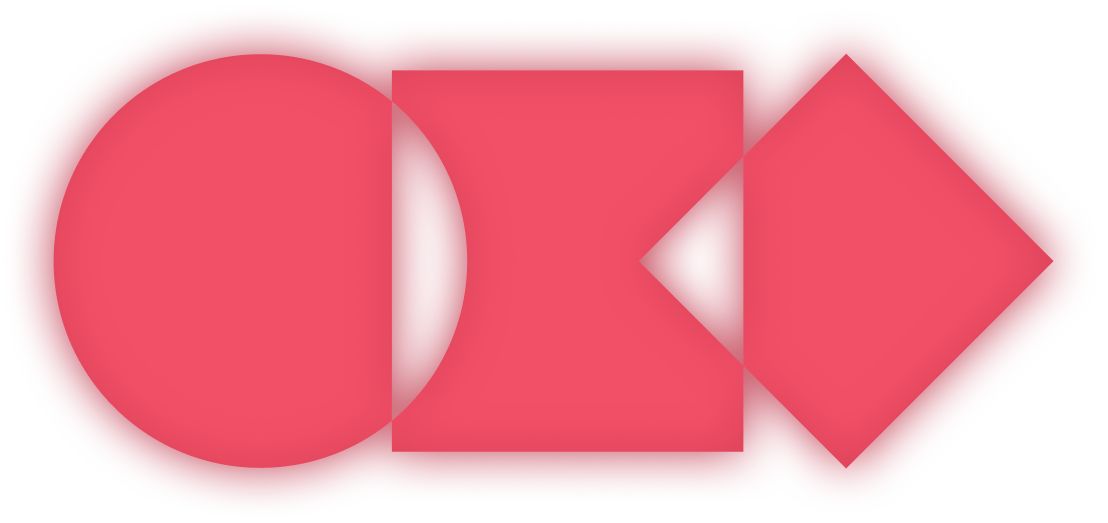
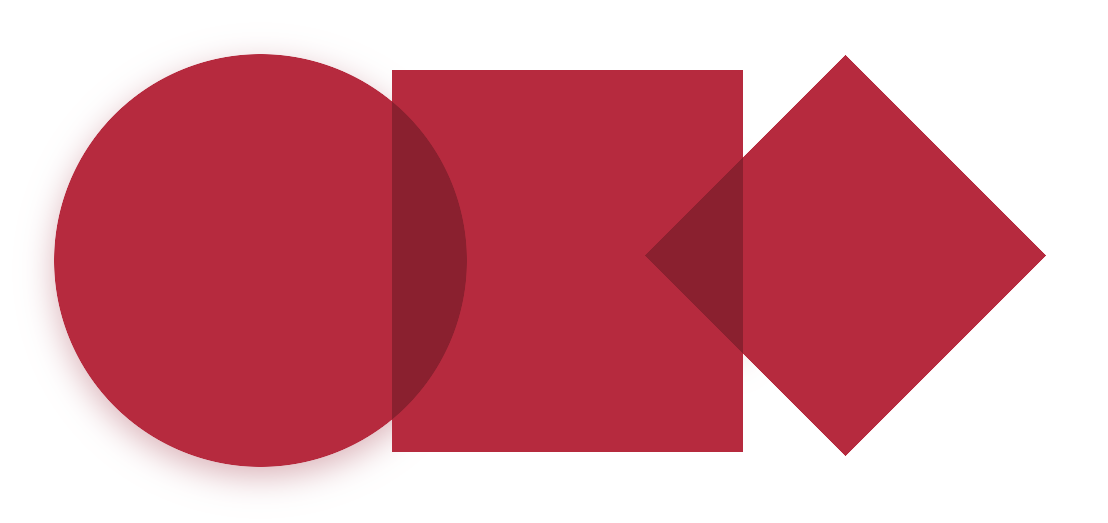
Own light-theme lock artwork; keyboard RGB from the accent; docs: refresh measured values
unlock.png was byte-identical to the dark sibling's (same MD5), so the
light theme shipped a #FF5C74 red-glow mark that is not derived from
this theme's palette at all. scripts/make-unlock.sh now generates the
mark from colors.toml: the same circle/square/diamond monogram and the
same two interlock zones, but in the light accent (#B62A3E) on paper,
with a soft warm shadow instead of the dark sibling's red glow.

keyboard.rgb moves from e63950 (the dark theme's red) to b62a3e, which
is this theme's own accent and what the built-in keyboard.rgb.tpl
({{ accent }}) already generates.

README/RESEARCH: accent is 5.62:1 (not 5.3), muted 2.34:1 (not 3.97),
every base ANSI color is >= 5.07:1 with bright_magenta at the 4.13:1
floor, selection/foreground 12.43:1, and the tested versions include
4.0.6-1. The 58-key resolution count matches the dark sibling on this
release.

diff --git a/RESEARCH.md b/RESEARCH.md
@@ -1,8 +1,9 @@
 # RESEARCH — Lula Light
 
 Engineering notes for the **light** sibling of Lula.
-Verified on **Omarchy 4.0.5-1**. Dark-sibling mechanics (staging flow,
-deny list, template resolution, Plymouth, OWE) are documented in the
+Verified on **Omarchy 4.0.5-1** and re-audited on **4.0.6-1** (2026-10-21).
+Dark-sibling mechanics (staging flow, deny list, template resolution,
+Plymouth, OWE) are documented in the
 [Lula (dark) repo's RESEARCH.md](https://github.com/PedroAugustoOK/omarchy-lula-theme/blob/main/RESEARCH.md);
 this file only registers what is light-specific.
 
@@ -25,43 +26,48 @@ and `/usr/share/omarchy/themes/flexoki-light/colors.toml`.
 
 Official light themes do **not** hold ANSI to ≥ 4.5:1 (catppuccin-latte's
 green is ~2.8:1). Lula Light tightens this: every base ANSI color is
-≥ 4.5:1; only its `bright_*` siblings and `dark_foreground` sit in the
-3.8–4.4:1 chrome band, comparable to the official themes' weakest entries.
+≥ 5.07:1; only its `bright_*` siblings and `dark_foreground` drop into the
+4.13–4.4:1 chrome band, comparable to the official themes' weakest entries.
 
 ## 2. Measured contrast (WCAG 2.x relative-luminance formula)
 
 Against `background #F9F2F4` (L = 0.905). The official
-`omarchy-dev-theme-preview` prints **foreground/background = 15.02:1**
-for the resolved pair (it computes the pair slightly more generously
-than the plain WCAG table below); both calcs agree the pair clears the
-7:1 target by a wide margin:
+`omarchy dev theme-preview` prints **foreground/background = 15.02:1**;
+the table below uses the same formula and reproduces its numbers exactly.
 
 | Role | Key | Hex | Ratio |
 |---|---|---|---|
-| main text | `foreground`/`bright_foreground` | `#32161C` | **14.06:1** |
-| secondary text | `light_foreground` | `#4B2B31` | **10.10:1** |
-| chrome text | `dark_foreground` | `#8A6A71` | 3.97:1 |
-| accent / red | `accent`/`red` | `#B62A3E` | **5.29:1** |
-| `bright_red` | | `#C53344` | 4.57:1 |
-| `yellow` / `bright_yellow` | | `#86600B` / `#876108` | 4.69:1 / 4.63:1 |
-| `orange` | | `#A8491F` | 4.82:1 |
-| `green` / `bright_green` | | `#2A7033` / `#2E7336` | 4.99:1 / 4.78:1 |
-| `cyan` / `bright_cyan` | | `#0D6E75` / `#0F6E75` | 4.97:1 / 4.96:1 |
-| `blue` / `bright_blue` | | `#24578D` / `#2E68A5` | 6.08:1 / 4.77:1 |
-| `magenta` / (`purple`) | | `#A63E96` | 4.70:1 |
-| `bright_magenta` | | `#B44FA6` | 3.84:1 |
-| `brown` | | `#6B3D2A` | 7.32:1 |
+| main text | `foreground`/`bright_foreground` | `#32161C` | **15.02:1** |
+| secondary text | `light_foreground` | `#4B2B31` | **11.27:1** |
+| chrome text | `dark_foreground` | `#8A6A71` | 4.35:1 |
+| accent / red | `accent`/`red` | `#B62A3E` | **5.62:1** |
+| `bright_red` | | `#C53344` | 4.84:1 |
+| `yellow` / `bright_yellow` | | `#86600B` / `#876108` | 5.16:1 / 5.08:1 |
+| `orange` | | `#A8491F` | 5.23:1 |
+| `green` / `bright_green` | | `#2A7033` / `#2E7336` | 5.50:1 / 5.26:1 |
+| `cyan` / `bright_cyan` | | `#0D6E75` / `#0F6E75` | 5.43:1 / 5.43:1 |
+| `blue` / `bright_blue` | | `#24578D` / `#2E68A5` | 6.74:1 / 5.23:1 |
+| `magenta` / (`purple`) | | `#A63E96` | 5.07:1 |
+| `bright_magenta` | | `#B44FA6` | 4.13:1 |
+| `brown` | | `#6B3D2A` | 8.18:1 |
 
-Swap-check: `foreground #32161C` on `selection #EFDADE` keeps ~7.5:1;
-`background` on `dark_background` offers an 8.5:1 invert pair.
+Swap-check: `foreground #32161C` on `selection #EFDADE` keeps **12.43:1**;
+`background` against `dark_background` is a **1.11:1** pair — adjacent
+surfaces in a light theme are meant to be close, not to invert.
+
+Every base ANSI color clears **5.07:1** (the weakest is `magenta`). The
+`bright_*` siblings sit lower: `bright_magenta` is the floor at **4.13:1**,
+and `dark_foreground` (chrome) is at 4.35:1. Those two are the only entries
+below 4.5:1, and both are chrome-grade roles, in the same band as the
+official light themes' weakest entries.
 
 ## 3. Resolution check
 
 `omarchy-theme-color --file colors.toml --all` resolves **58 keys**
-(dark themes resolve 71 — the four original `*-mix`-style light/dark
-preview variants and a few dark-only derivatives are the difference;
-none are referenced by the built-in templates). Verified present and
-correct: `mode = light`, `theme_type = light`, `bg`/`fg` aliases,
+on Omarchy 4.0.6-1 — the same count the dark sibling resolves on this
+version (on 4.0.5-1 the dark theme resolved 71; the resolver's derived-key
+set narrowed with the release). Verified present and correct:
+`mode = light`, `theme_type = light`, `bg`/`fg` aliases,
 `color0–15`, `purple` → `#A63E96`, both
 `hyprland_*_border` gradient strings intact.
 
@@ -93,8 +99,8 @@ Pin a deterministic background with
 ## 5. Plymouth / OWE specifics
 
 - `omarchy-plymouth-set-by-theme lula-light` works exactly as for the
-  dark theme: it uses `unlock.png` plus this theme's
-  `background`/`foreground` (light boot: red mark on paper).
+  dark theme: it uses this theme's own `unlock.png` plus its
+  `background`/`foreground` (light boot: wine mark on paper).
   `omarchy plymouth preview` composites `preview-unlock.png` and always
   ends "hanging" in `imv` — that is the viewer, not the pipeline; the PNG
   is already written (run under `timeout`).
@@ -105,8 +111,15 @@ Pin a deterministic background with
 
 - The three wallpapers form a curated abstract set (blush, petal, linen),
   2560×1440 PNG, 150–205 KB, generated procedurally with ImageMagick.
-- `unlock.png` reuses the dark sibling's red key art (1108×523,
-  transparent) — it is legible on the light lock/boot surface too, which
-  keeps the family identity identical.
-- Icons `Yaru-red`, keyboard backlight `e63950` (the keyboard RGB has no
-  light/dark distinction in Omarchy's pipeline).
+- `unlock.png` (1108×523, transparent) and `preview-unlock.png`
+  (1920×1080) are **this theme's own** key art, generated by
+  `scripts/make-unlock.sh`. It keeps the family monogram — circle, square
+  and diamond with the two interlock zones painted a step deeper — but in
+  the light palette: the accent `#B62A3E` on paper, with a soft warm
+  shadow instead of the dark sibling's red glow. Reusing the dark theme's
+  art byte-for-byte would put a `#FF5C74` glow on a white boot screen and
+  would not be derived from this theme's colors at all.
+- Icons `Yaru-red`, keyboard backlight `b62a3e` — the theme's own accent,
+  which is also what the built-in `keyboard.rgb.tpl` (`{{ accent }}`)
+  generates. The dark sibling keeps `e63950` because that *is* its accent.
+  Omarchy's keyboard pipeline has no light/dark distinction.

diff --git a/README.md b/README.md
@@ -20,14 +20,15 @@ Omarchy's built-in templates.
 | `mode` | `light` | paper surfaces, dark text |
 | `background` | `#F9F2F4` | warm rose paper (text 15.02:1) |
 | `foreground` | `#32161C` | deep wine ink |
-| `accent` / `red` | `#B62A3E` | one accent, wine red, 5.3:1 on paper |
+| `accent` / `red` | `#B62A3E` | one accent, wine red, 5.62:1 on paper |
 | `selection` | `#EFDADE` | rose selection |
-| `muted` | `#B79AA1` | soft borders (3.97:1, chrome only) |
+| `muted` | `#B79AA1` | soft borders (2.34:1, chrome only) |
 
-Panel/ANSI contrast (same calculator as `omarchy-theme-preview`):
-every ANSI color ≥ 4.57:1 on the background; `bright_*` are slightly
-lightened siblings (3.84:1 for `bright_magenta`, chrome-grade like the
-official light themes' weakest entries).
+Panel/ANSI contrast (same calculator as `omarchy dev theme-preview`):
+every base ANSI color is ≥ 5.07:1 on the background; the `bright_*`
+siblings sit lower — `bright_magenta` is the floor at 4.13:1, and
+`dark_foreground` (chrome) is at 4.35:1, chrome-grade like the official
+light themes' weakest entries.
 
 ## Wallpapers
 
@@ -93,10 +94,11 @@ To go back to the dark sibling: `omarchy theme set lula`.
 
 ## Compatibility
 
-- Omarchy **4.x**, tested on `4.0.5-1`.
+- Omarchy **4.x**, tested on `4.0.5-1` and `4.0.6-1`.
 - Ships no `.lua`, no terminal configs, no `vscode.json`, no symlinks —
   nothing is dropped by git-theme staging.
-- Icons `Yaru-red`; keyboard backlight red `e63950`.
+- Icons `Yaru-red`; keyboard backlight wine red `b62a3e` (the theme's own
+  accent, matching the built-in `keyboard.rgb.tpl`).
 - No animated `backgrounds/intros/` (the OWE wallpaper engine is optional
   and the theme stays static).
 
@@ -107,11 +109,11 @@ omarchy-lula-light-theme/
 ├── colors.toml          # the palette — the only required file
 ├── backgrounds/         # 3 abstract 2560×1440 wallpapers
 ├── icons.theme          # Yaru-red
-├── keyboard.rgb         # e63950
+├── keyboard.rgb         # b62a3e
 ├── preview.png          # 1800×1012 theme-picker artwork
-├── unlock.png           # transparent lock/boot art
+├── unlock.png           # transparent lock/boot art (own light-theme mark)
 ├── preview-unlock.png   # 1920×1080 lock/boot styles preview
-├── scripts/             # make-preview.sh, generates preview.png
+├── scripts/             # make-preview.sh, make-unlock.sh
 ├── README.md
 ├── RESEARCH.md          # light-mode conventions + measured contrast
 └── LICENSE              # MIT
